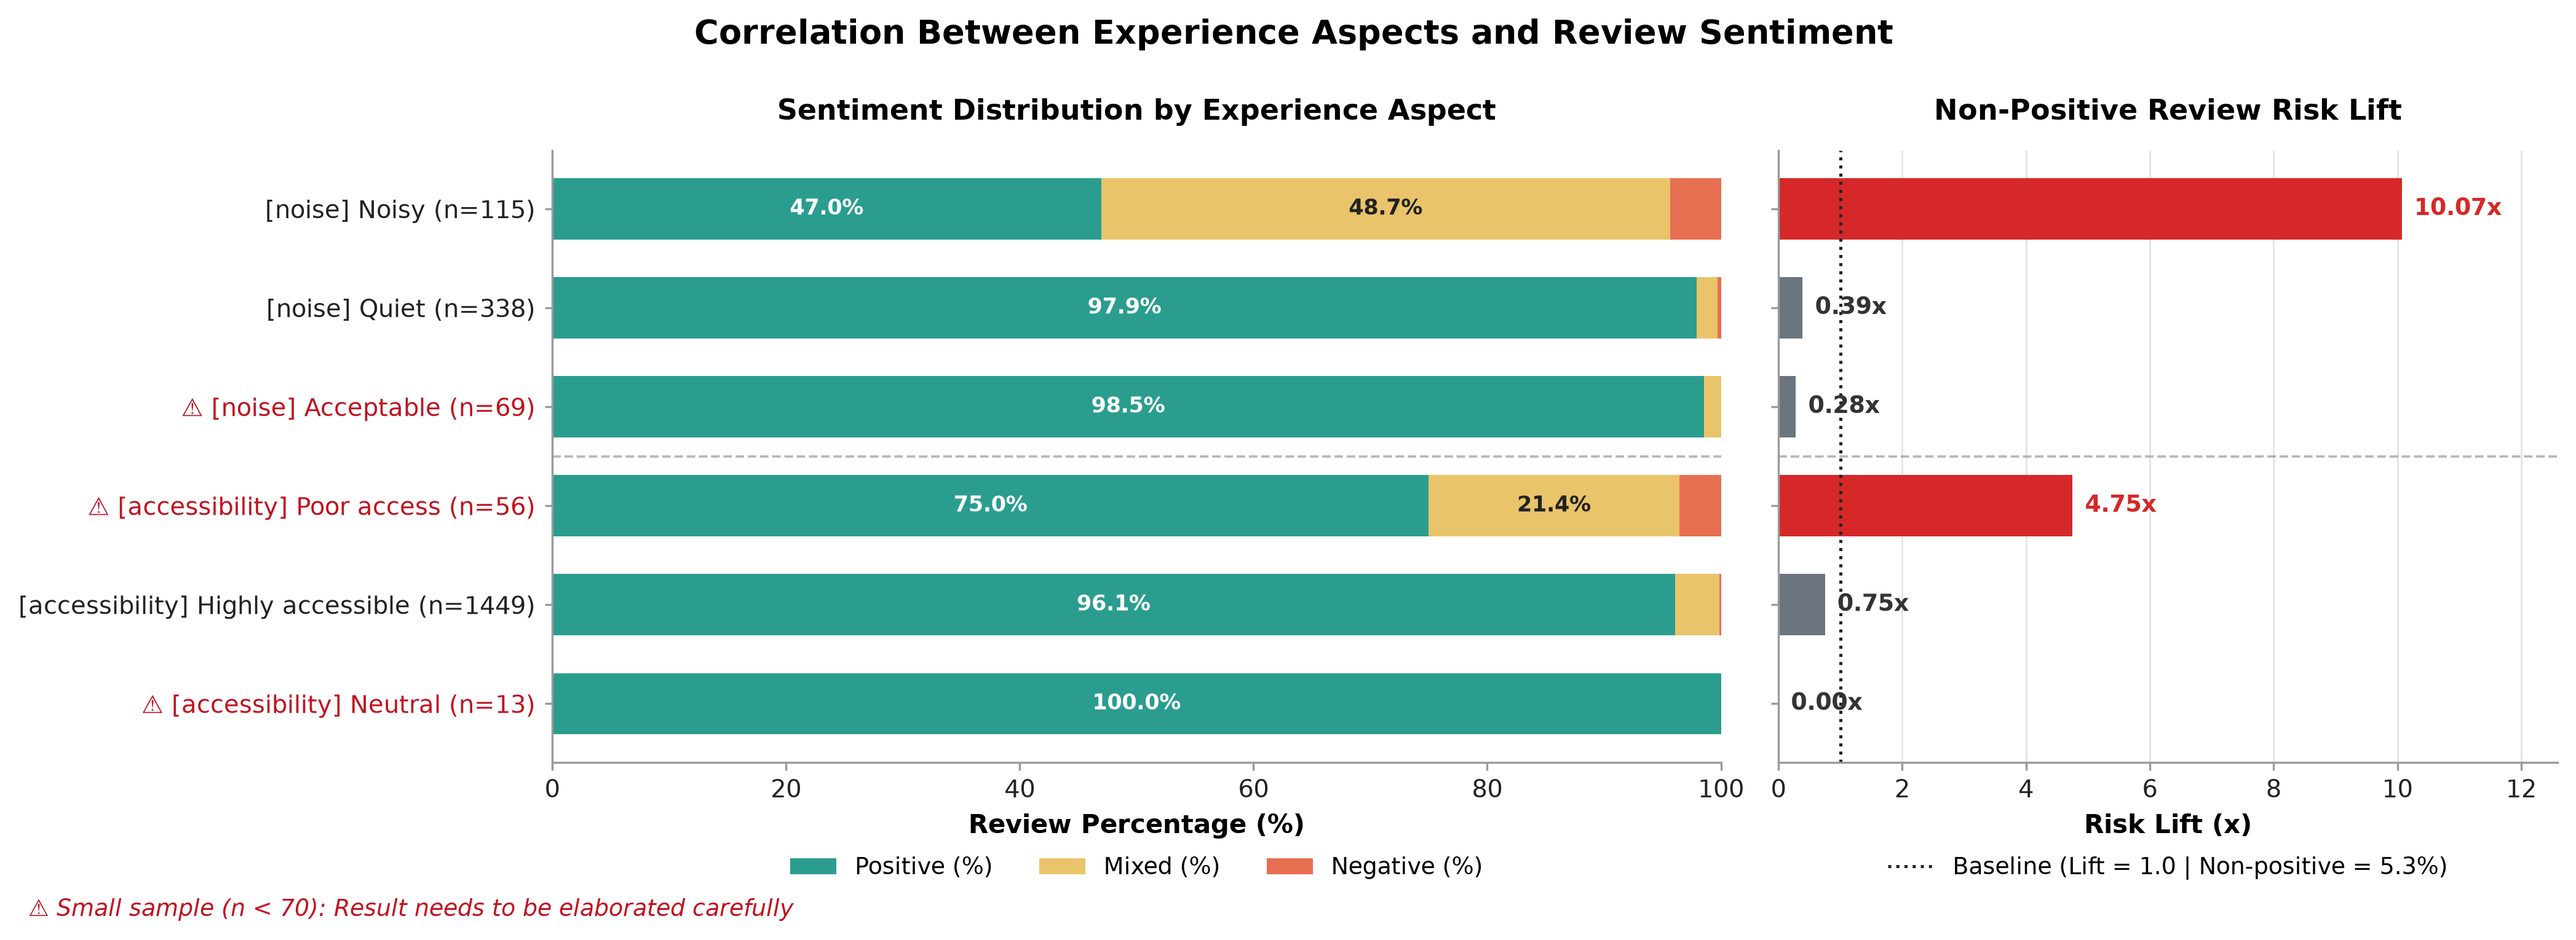
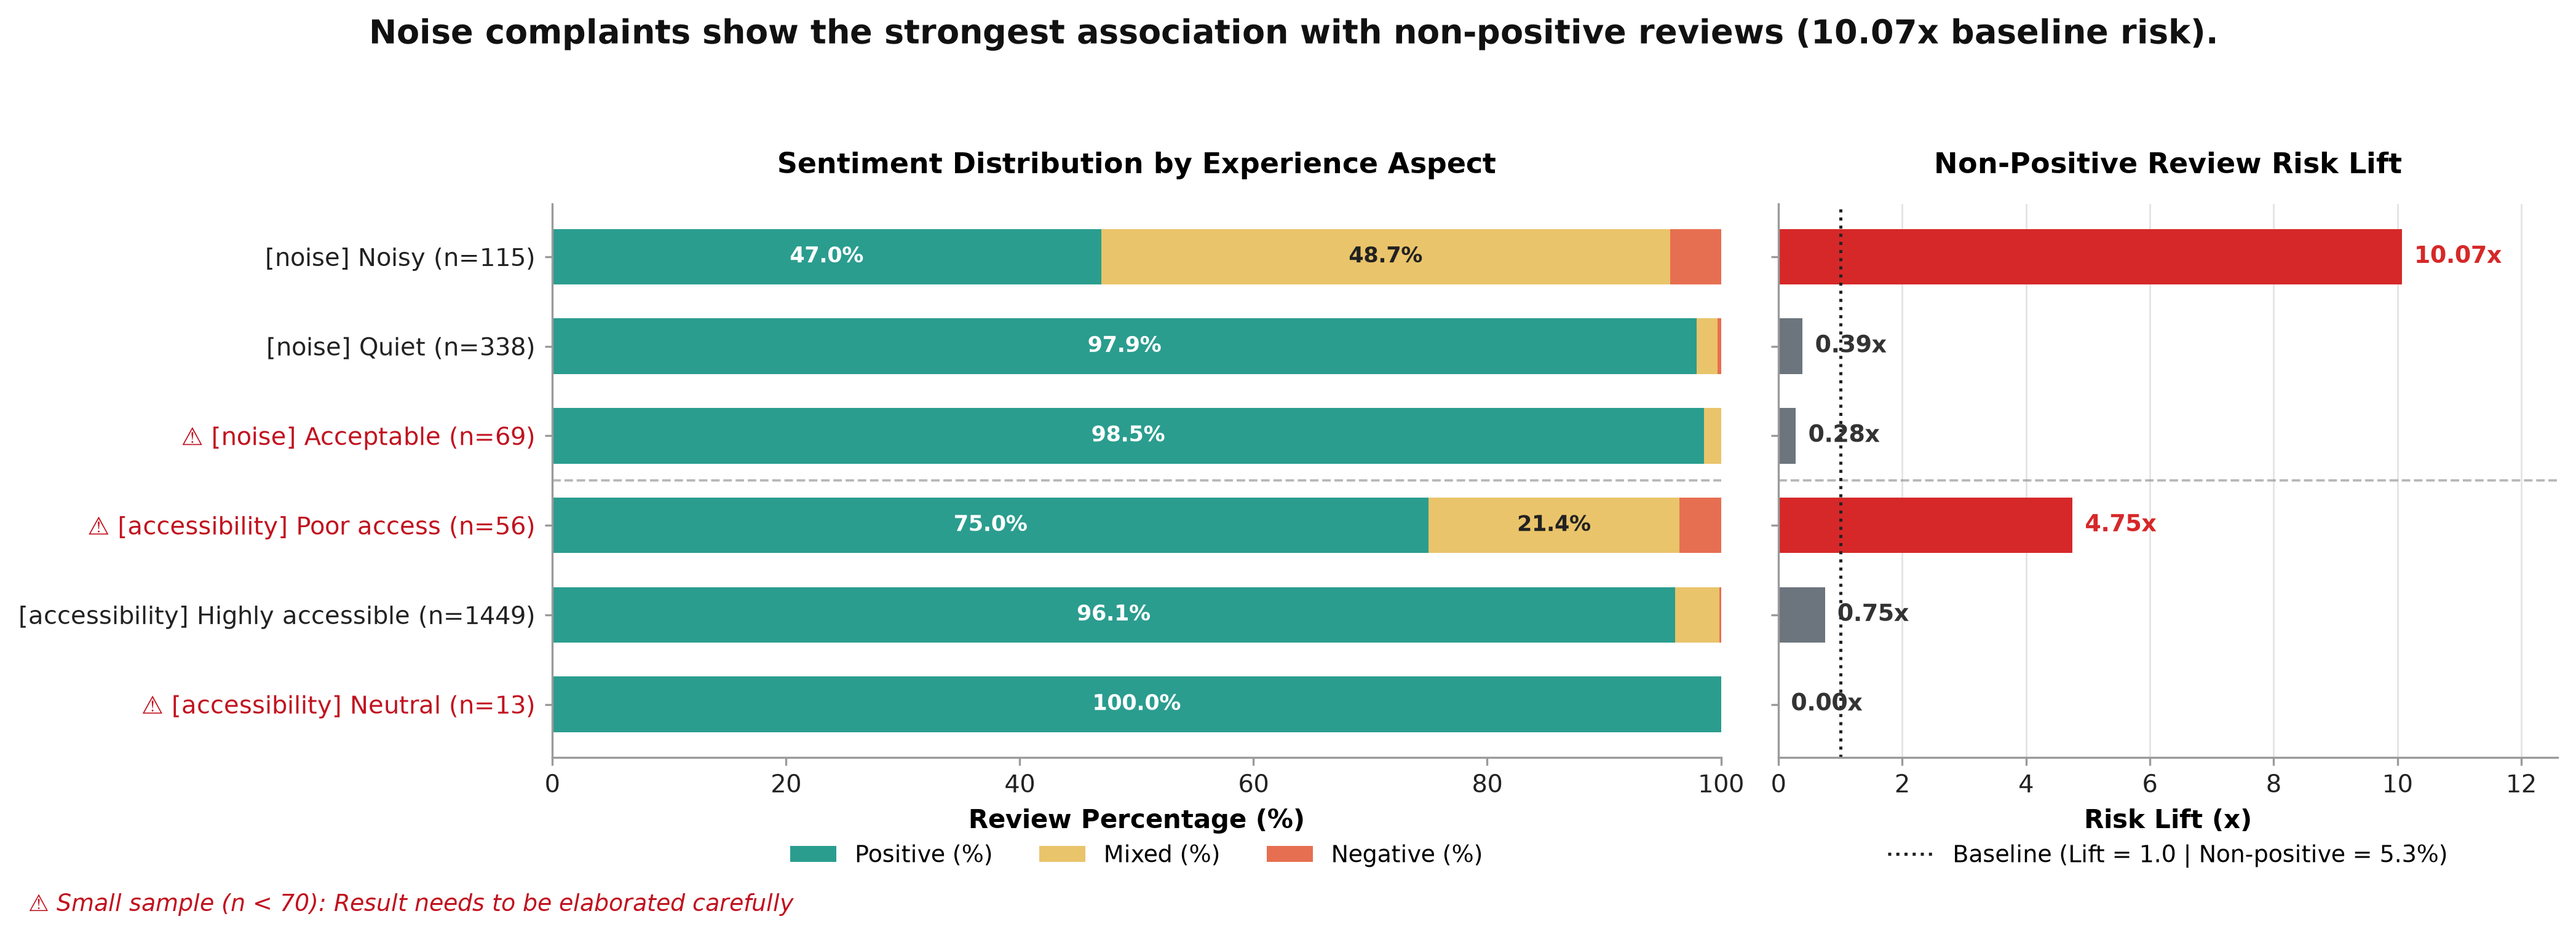
sửa title biểu đồ

diff --git a/src/viz.py b/src/viz.py
@@ -81,7 +81,16 @@ def csv_to_df(csv_path: str | Path) -> pd.DataFrame:
     df = pd.read_csv(path)
     df.columns = df.columns.str.strip()
     return df
-
+def add_main_title(fig, title, y=0.985):
+    fig.text(
+        0.5, y,
+        title,
+        ha="center",
+        va="top",
+        fontsize=13,
+        fontweight="bold",
+        color="#111111"
+    )
 
 def plot_overpriced_analysis(df: pd.DataFrame, output_path: Path):
     df_area = df[(df["room_type"] == "All") & (df["analysis_area"] != "All")].copy()
@@ -93,8 +102,11 @@ def plot_overpriced_analysis(df: pd.DataFrame, output_path: Path):
     fig, (ax1, ax2) = plt.subplots(
         1, 2, figsize=(14, 5.2), gridspec_kw={"width_ratios": [2.4, 1]}
     )
-    fig.suptitle("Overpriced Listings Rate, snapshot 23/06/2026", y=0.99)
 
+    add_main_title(
+        fig,
+        "A08 records the highest overpriced rate (37.1%), while private rooms are more frequently overpriced than entire homes."
+    )
     # --- BIỂU ĐỒ 1 (TRÁI): Combo Bar (Overpriced %) + Line (Median Price) theo Khu vực ---
     x = np.arange(len(df_area))
     bars = ax1.bar(
@@ -149,7 +161,7 @@ def plot_overpriced_analysis(df: pd.DataFrame, output_path: Path):
             ha="center", va="bottom", fontsize=8.5
         )
 
-    plt.tight_layout(rect=[0, 0.05, 1, 0.95])
+    plt.tight_layout(rect=[0, 0.05, 1, 0.87])
     fig.text(
         0.5, 0.012,
         "Overpriced: Price ≥ 1,25 × Median Price by area and review_scores_value < 4,6. ",
@@ -172,9 +184,10 @@ def plot_booking_curve(df: pd.DataFrame, output_path: str | Path):
         2, ncols, figsize=(7.4 * ncols, 9.6), squeeze=False,
         gridspec_kw={"height_ratios": [1.25, 1]},
     )
-    fig.suptitle(
-        "Booking Curve: Unavailability Rate by Lead Time (" + " and ".join(month_label[m] for m in months) + " Stays)",
-        y=0.995,
+    add_main_title(
+    fig,
+    "Unavailability rises sharply near stay dates, reaching 57.0% in July and 46.1% in August.",
+    y=0.985
     )
 
     # Trục y dùng chung cho hàng trên
@@ -215,7 +228,7 @@ def plot_booking_curve(df: pd.DataFrame, output_path: str | Path):
         ax.grid(True, axis="y")
 
     handles, labels = axes[0, 0].get_legend_handles_labels()
-    fig.legend(handles, labels, loc="upper center", ncol=len(labels), bbox_to_anchor=(0.5, 0.965), frameon=False)
+    fig.legend(handles, labels, loc="upper center", ncol=len(labels), bbox_to_anchor=(0.5, 0.925), frameon=False)
 
     # ---------- Hàng dưới: pickup giữa các snapshot (khu vực x khoảng thời gian) ----------
     pk = df.dropna(subset=["pickup_pp"])
@@ -273,7 +286,14 @@ def plot_booking_curve(df: pd.DataFrame, output_path: str | Path):
         "Lead time is measured to the 1st of the month.",
         ha="center", va="top", fontsize=9, style="italic", color="#555555",
     )
-    fig.subplots_adjust(top=0.87, bottom=0.08, left=0.07, right=0.9, hspace=0.6, wspace=0.18)  # tránh nhãn trục đè tiêu đề hàng dưới
+    fig.subplots_adjust(
+        top=0.83,
+        bottom=0.08,
+        left=0.07,
+        right=0.9,
+        hspace=0.6,
+        wspace=0.18
+    )  # tránh nhãn trục đè tiêu đề hàng dưới
     save_figure(fig, output_path)
 
 
@@ -296,8 +316,10 @@ def plot_sentiment_correlation(df: pd.DataFrame, output_path: str | Path):
         sharey=True,
         gridspec_kw={"width_ratios": [1.5, 1]}
     )
-    fig.suptitle("Correlation Between Experience Aspects and Review Sentiment", y=0.99)
-
+    add_main_title(
+    fig,
+    "Noise complaints show the strongest association with non-positive reviews (10.07x baseline risk)."
+    )
     # --- BIỂU ĐỒ 1 (TRÁI): Horizontal Stacked Bar phân bổ tỷ lệ Sentiment ---
     pos = df["positive_rate"].to_numpy()
     mix = df["mixed_rate"].to_numpy()
@@ -363,7 +385,7 @@ def plot_sentiment_correlation(df: pd.DataFrame, output_path: str | Path):
     ax2.legend(loc="upper center", bbox_to_anchor=(0.5, -0.12), frameon=False)
     ax2.grid(axis="x")
 
-    plt.tight_layout()
+    plt.tight_layout(rect=[0, 0, 1, 0.87])
     fig.text(
         0.01, 0.01, f"⚠ Small sample (n < {SMALL_N}): Result needs to be elaborated carefully",
         ha="left", va="bottom", fontsize=9, style="italic", color="#C1121F"
@@ -383,7 +405,10 @@ def plot_dormant_listing_rate(df: pd.DataFrame, output_path: str | Path):
     colors = plt.get_cmap("Blues")(np.linspace(0.35, 0.95, len(snapshots)))
     Y_MAX, Y_STEP = 24, 4
     fig, axes = plt.subplots(1, 2, figsize=(14, 5.8), gridspec_kw={"width_ratios": [2.4, 1]})
-    fig.suptitle("Dormant Listing Rate Across Four Snapshots", y=0.99)
+    add_main_title(
+    fig,
+    "Private rooms consistently show higher dormant rates than entire homes, reaching 20.8% in June 2026."
+)
 
     for ax, sub_df, group_col, title, xlabel, ylabel in [
         (axes[0], df_area, "analysis_area", "Dormant Rate (%) by Area", "Analysis Area", "Dormant Rate (%)"),
@@ -427,7 +452,7 @@ def plot_dormant_listing_rate(df: pd.DataFrame, output_path: str | Path):
         handles, labels, title="Snapshot", loc="lower center",
         bbox_to_anchor=(0.5, 0.0), ncol=len(snapshots), frameon=True
     )
-    plt.tight_layout(rect=[0, 0.16, 1, 0.95])
+    plt.tight_layout(rect=[0, 0.16, 1, 0.87])
     save_figure(fig, output_path)
 
 
@@ -455,8 +480,10 @@ def plot_label_distribution(df: pd.DataFrame, output_path: str | Path):
     if len(aspects) == 1:
         axes = [axes]
 
-    fig.suptitle("Distribution of Sentiment and Experience Aspect Labels by Area", y=0.99)
-
+    add_main_title(
+    fig,
+    "Positive sentiment dominates all areas, while noise-related experiences show the greatest variation."
+)
     y = np.arange(len(areas))
     for ax, aspect in zip(axes, aspects):
         sub = df[df["aspect"] == aspect]
@@ -496,7 +523,7 @@ def plot_label_distribution(df: pd.DataFrame, output_path: str | Path):
         ax.set_title(aspect.replace("_", " ").title())
         ax.legend(loc="upper center", bbox_to_anchor=(0.5, -0.14), ncol=len(cols), frameon=False)
 
-    plt.tight_layout(rect=[0, 0.06, 1, 0.95])
+    plt.tight_layout(rect=[0, 0.06, 1, 0.87])
     fig.text(
         0.5, 0.012,
         "Shares are computed within each area over reviews that mention the aspect ('Not mentioned' excluded). "
@@ -518,6 +545,11 @@ def plot_professional_host_share(df: pd.DataFrame, output_path: str | Path):
     ncols = 2
     nrows = int(np.ceil(len(snapshots) / ncols))
     fig, axes = plt.subplots(nrows, ncols, figsize=(14, 4.5 * nrows), sharey=True)
+    add_main_title(
+        fig,
+        "Host composition remains broadly stable, with small multi-listing hosts holding the largest share in most areas.",
+        y=0.985
+    )
     axes = np.atleast_1d(axes).flatten()
 
     x = np.arange(len(areas))
@@ -553,10 +585,9 @@ def plot_professional_host_share(df: pd.DataFrame, output_path: str | Path):
     for j in range(len(snapshots), len(axes)):
         axes[j].axis("off")
 
-    fig.suptitle("Host Tier Market Share Distribution by Area Across Four Snapshots", y=1.0)
     handles, labels = axes[0].get_legend_handles_labels()
-    fig.legend(handles, labels, title="Host Tier", loc="upper center", bbox_to_anchor=(0.5, 0.965), ncol=3, frameon=True)
-    plt.tight_layout(rect=[0, 0, 1, 0.9])
+    fig.legend(handles, labels, title="Host Tier", loc="upper center", bbox_to_anchor=(0.5, 0.925), ncol=3, frameon=True)
+    plt.tight_layout(rect=[0, 0, 1, 0.84])
     save_figure(fig, output_path)
 
 
@@ -570,7 +601,10 @@ def plot_review_concentration(df: pd.DataFrame, output_path: str | Path):
     areas = sorted(pivot_df.columns.tolist())
 
     fig, (ax1, ax2) = plt.subplots(1, 2, figsize=(15, 5.2), gridspec_kw={"width_ratios": [1.4, 1]})
-    fig.suptitle("Review Volume and Distribution Trends by Area (2015–2025)", y=0.99)
+    add_main_title(
+    fig,
+    "Review volume peaked in 2024 (911 reviews) before declining in 2025, with A02 contributing a substantial share."
+    )
 
     # Biểu đồ trái: Heatmap
     mat = pivot_df[areas].T.to_numpy()
@@ -628,7 +662,7 @@ def plot_review_concentration(df: pd.DataFrame, output_path: str | Path):
     ax2.tick_params(axis="x", rotation=45)
     ax2.grid(axis="y")
 
-    plt.tight_layout()
+    plt.tight_layout(rect=[0, 0, 1, 0.87])
     save_figure(fig, output_path)
 
 
@@ -640,8 +674,10 @@ def plot_revpar(df: pd.DataFrame, output_path: str | Path):
     df_room = df[(df["analysis_area"] == "All") & (df["room_type"] != "All")]
 
     fig, (ax1, ax2) = plt.subplots(1, 2, figsize=(14.5, 5.2), gridspec_kw={"width_ratios": [2.4, 1]})
-    fig.suptitle("Revenue Performance (RevPAR) and Occupancy Rate, Snapshot 23/6/2026", y=0.99)
-
+    add_main_title(
+    fig,
+    "A03 leads in RevPAR ($55.0) and occupancy (35%), while entire homes generate higher revenue than private rooms."
+)
     Y_STEP = 10
     y_top = float(np.ceil(max(df_area["revpar"].max(), df_room["revpar"].max()) * 1.1 / Y_STEP) * Y_STEP)
 
@@ -689,7 +725,7 @@ def plot_revpar(df: pd.DataFrame, output_path: str | Path):
             ha="center", va="bottom", fontsize=8
         )
 
-    plt.tight_layout()
+    plt.tight_layout(rect=[0, 0, 1, 0.87])
     save_figure(fig, output_path)
 
 
@@ -704,12 +740,15 @@ def plot_top_n_host_share(df: pd.DataFrame, output_path: str | Path):
 
     fig, ax1 = plt.subplots(figsize=(9, 4.8))
     bars = ax1.bar(x, df["top_n_share_%"], width=0.48, color="#4C72B0", label=f"Top {top_n} Share (%)")
+    add_main_title(
+    fig,
+    "Market concentration remains stable, with the top 10 hosts consistently controlling around 10% of listings."
+)
 
     ax1.set_xticks(x)
     ax1.set_xticklabels(df["snapshot"])
     ax1.set_ylabel(f"Top {top_n} Host Market Share (%)", color="#4C72B0")
     ax1.set_ylim(0, max(df["top_n_share_%"].max() * 1.3, 15))
-    ax1.set_title(f"Top {top_n} Hosts Market Share Across Four Snapshots")
     ax1.grid(axis="y")
 
     for bar, (_, row) in zip(bars, df.iterrows()):
@@ -730,7 +769,7 @@ def plot_top_n_host_share(df: pd.DataFrame, output_path: str | Path):
     h2, l2 = ax2.get_legend_handles_labels()
     ax1.legend(h1 + h2, l1 + l2, loc="upper center", bbox_to_anchor=(0.5, -0.1), ncol=2, frameon=False)
 
-    plt.tight_layout()
+    plt.tight_layout(rect=[0, 0, 1, 0.87])
     save_figure(fig, output_path)
 
 
